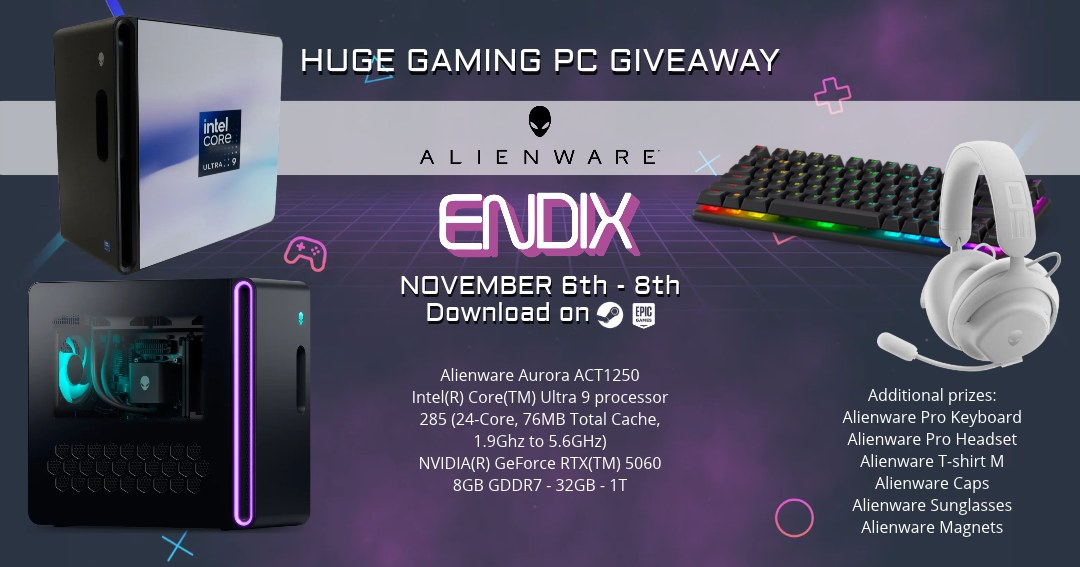
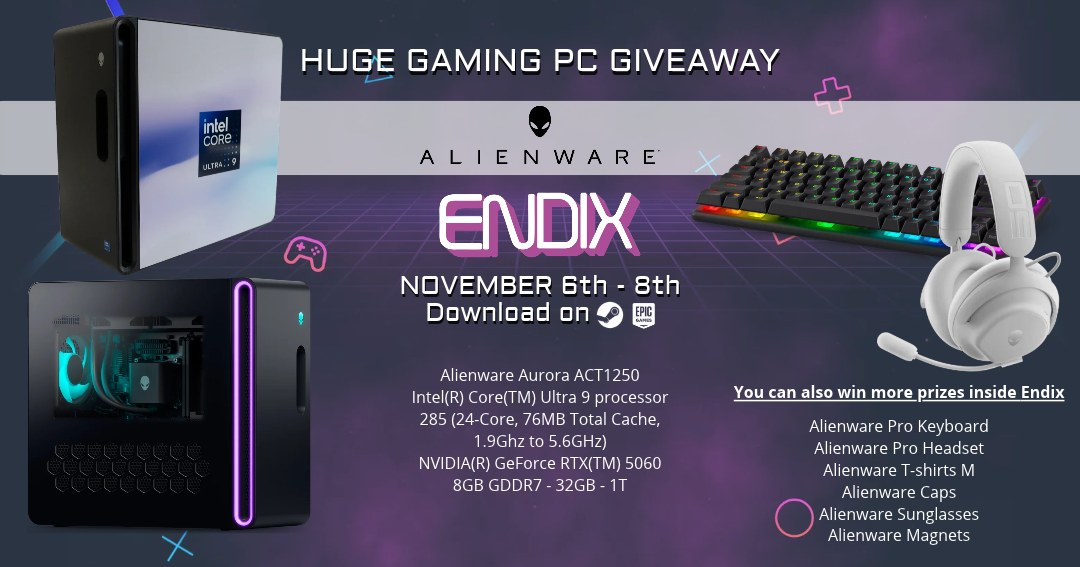
Creator Kit: new Alienware giveaway image and in-Endix prizes line
Claude-Session: https://claude.ai/code/session_01R4ibNdiEEyzCz8KKoydyyS

Changed region(s): [[0.6722, 0.6596, 1.0, 0.9594]]

diff --git a/creators/index.html b/creators/index.html
@@ -218,7 +218,7 @@ html{scroll-behavior:smooth}
         <div style="flex: 1 1 auto; padding: 30px; display: flex; flex-direction: column; gap: 12px">
           <span class="k" style="color: #7fd4ff">Alienware giveaway</span>
           <h3 style="margin: 0; font-family: Orbitron, sans-serif; font-size: 28px; line-height: 1.15">Win an Alienware gaming PC</h3>
-          <p style="margin: 0; font-size: 18px; color: #cfc6e6; font-weight: 500">Alienware Aurora ACT1250 with Intel Core Ultra 9 285 (24 cores, up to 5.6 GHz), NVIDIA GeForce RTX 5060 8 GB, 32 GB RAM and 1 TB storage.<br><span style="color: #a99dca; font-size: 16px">Plus Alienware Pro keyboard, Pro headset, T-shirt, caps, sunglasses and magnets.</span></p>
+          <p style="margin: 0; font-size: 18px; color: #cfc6e6; font-weight: 500">Alienware Aurora ACT1250 with Intel Core Ultra 9 285 (24 cores, up to 5.6 GHz), NVIDIA GeForce RTX 5060 8 GB, 32 GB RAM and 1 TB storage.<br><span style="color: #a99dca; font-size: 16px">You can also win more prizes inside Endix: Alienware Pro keyboard, Pro headset, T-shirts, caps, sunglasses and magnets.</span></p>
           <span style="font-size: 16px; font-weight: 600; color: #a99dca">Entries open now</span>
           <a class="btn" href="https://gleam.io/ONi3k/endix-alienware-gaming-pc-giveaway" target="_blank" rel="noopener" style="align-self: flex-start; margin-top: auto; background: #3aa0ff; color: #fff">Enter giveaway</a>
         </div>

diff --git a/tools/build_creators.py b/tools/build_creators.py
@@ -20,7 +20,7 @@ GIVEAWAYS = {
     # image: file in assets/creators/. embed=True shows Gleam's own entry widget inside the card instead of a button.
     'alienware': {'image': 'alienware-giveaway.jpg',
                   'specs': 'Alienware Aurora ACT1250 with Intel Core Ultra 9 285 (24 cores, up to 5.6 GHz), NVIDIA GeForce RTX 5060 8 GB, 32 GB RAM and 1 TB storage.',
-                  'extras': 'Plus Alienware Pro keyboard, Pro headset, T-shirt, caps, sunglasses and magnets.',
+                  'extras': 'You can also win more prizes inside Endix: Alienware Pro keyboard, Pro headset, T-shirts, caps, sunglasses and magnets.',
                   'dates': '', 'gleam': 'https://gleam.io/ONi3k/endix-alienware-gaming-pc-giveaway',
                   'embed': False, 'embed_title': 'Endix 🫰 Alienware GAMING PC 🎮🖥 giveaway'},  # embed=True shows Gleam's widget instead of a button
     'elgato': {'prize': '2× Elgato Stream Deck MK.2', 'image': 'elgato-giveaway.jpg', 'dates': '', 'gleam': 'https://gleam.io/jjlbM/endix-elgato-giveaway'},
